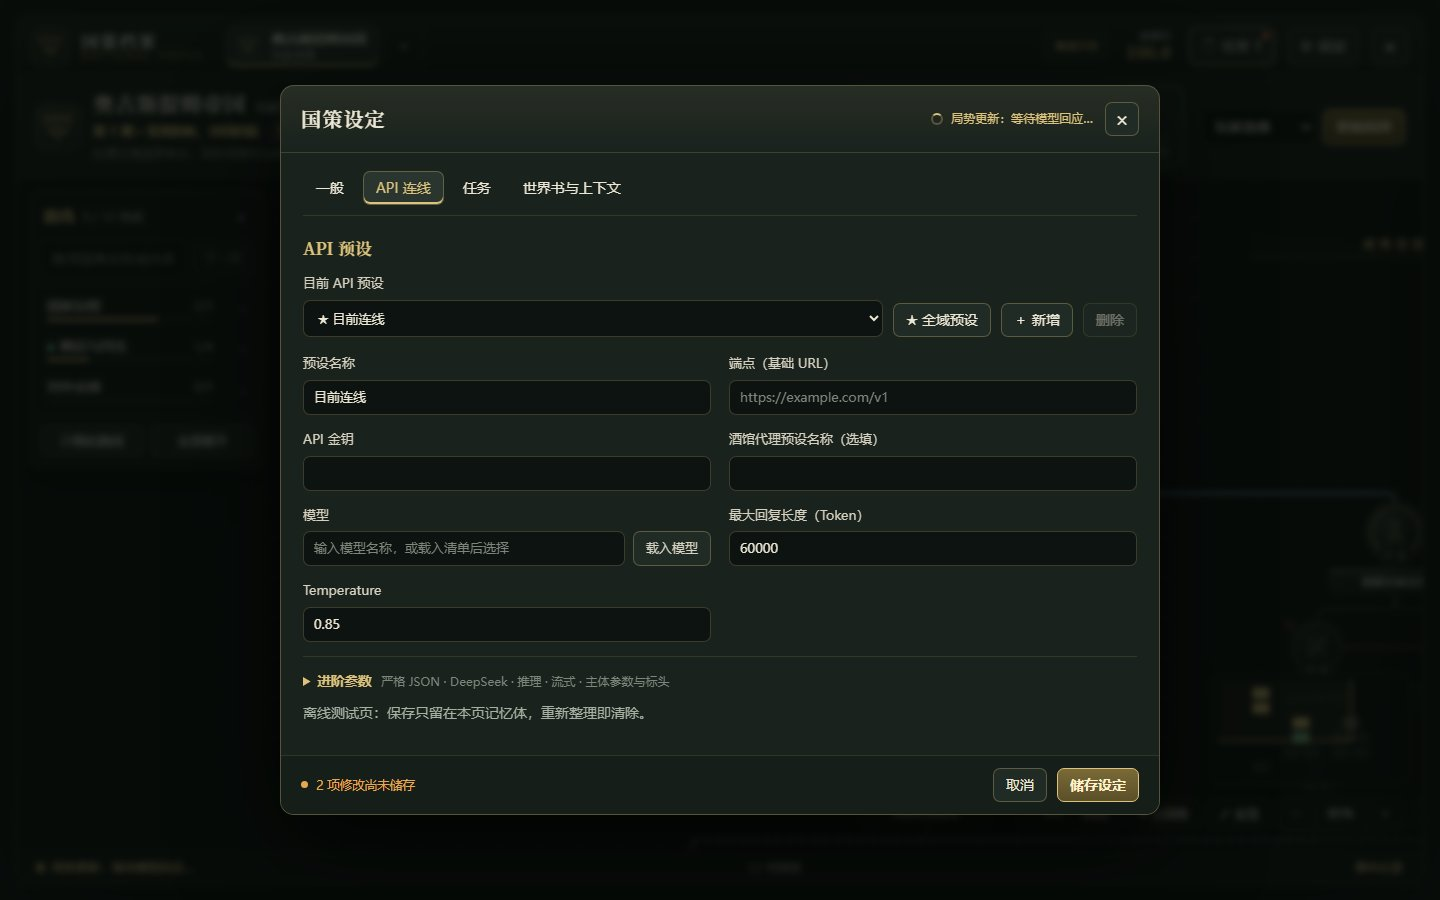
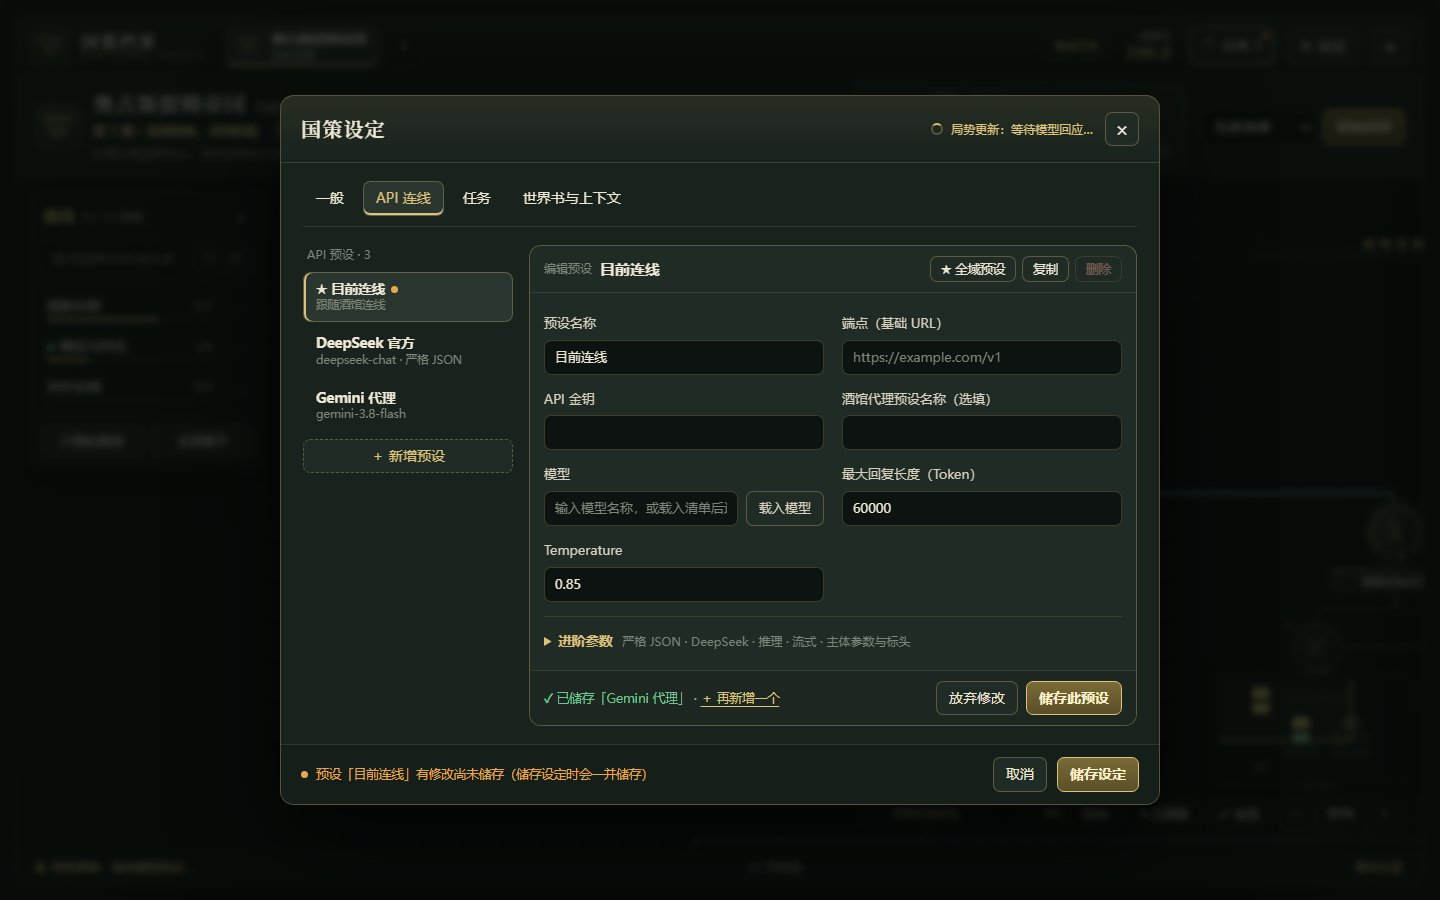
docs: give API presets their own save in the UI revamp sample
Presets are listed on the left; the editor card saves one preset
without closing the settings window, so several can be added in a row.

diff --git a/docs/介面改版-樣品.html b/docs/介面改版-樣品.html
@@ -123,7 +123,7 @@ const screens = [
   {
     id: 'general', name: '設定 · 一般', score: '5.7 → 7.1（設定全部）',
     notes: [
-      ['只有一種儲存', '所有分頁的修改都是草稿，統一由底部「儲存設定」存檔；底部左側顯示「2 項修改尚未儲存」。用詞統一為「儲存」。'],
+      ['設定由底部儲存', '一般、任務、世界書與上下文的修改都是草稿，由底部「儲存設定」存檔並關閉視窗；底部左側顯示「2 項修改尚未儲存」。API 預設是唯一的例外，有自己的儲存（見「設定 · API」）。用詞統一為「儲存」。'],
       ['說明縮成一行', '每個欄位只留一行提示，完整說明收在「說明」裡，點開才看到。'],
       ['開視窗不先選中 ×', '焦點放在視窗本身，鍵盤操作照樣可用，但右上角不再出現金色焦點框。'],
     ],
@@ -139,9 +139,10 @@ const screens = [
   {
     id: 'api', name: '設定 · API', score: '',
     notes: [
-      ['模型欄合併', '「模型名稱」與「模型列表」合成一欄，旁邊就是「載入模型」；載入後可直接從清單選。'],
-      ['進階參數收起', '嚴格 JSON、DeepSeek、推理、流式、主體參數與標頭收進「進階參數」，一般只要填連線的人看到的是一頁就完。'],
-      ['拿掉第二組儲存', '「放棄修改／保存預設」那一列拿掉，與其他分頁一樣由底部儲存。'],
+      ['預設清單在左、編輯卡在右', '所有 API 預設列在左邊（★ 為全域預設，下方小字是模型），點一下就切換；「＋ 新增預設」在清單底部。有修改未儲存的預設會亮一個點。'],
+      ['預設有自己的儲存，不關視窗', '編輯卡底部的「儲存此預設」只存這一個預設、視窗保持開著，儲存後顯示「✓ 已儲存「Gemini 代理」 · ＋ 再新增一個」，可以一口氣連續建好幾個。切換到別的預設時若有未儲存修改，照現在一樣先問要儲存還是放棄。'],
+      ['範圍一看就懂', '這組按鈕畫在預設的卡片裡，只管這個預設；底部「儲存設定」管整個設定視窗，按下時也會順便存未儲存的預設，並在左下角寫明「預設「目前連線」有修改尚未儲存」，不會不小心遺失。全域預設、複製、刪除移到卡片標題列。'],
+      ['模型欄合併、進階收起', '「模型名稱」與「模型列表」合成一欄，旁邊就是「載入模型」。嚴格 JSON、DeepSeek、推理、流式、主體參數與標頭收進「進階參數」。'],
     ],
   },
   {
